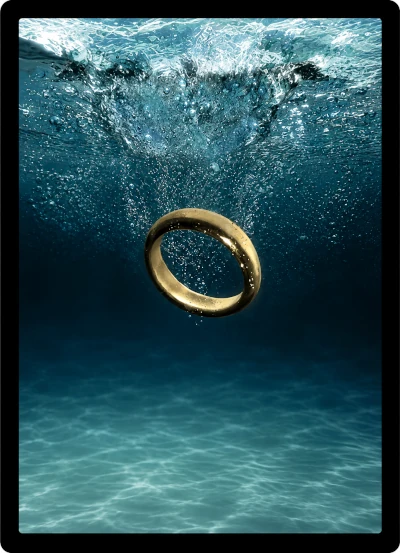
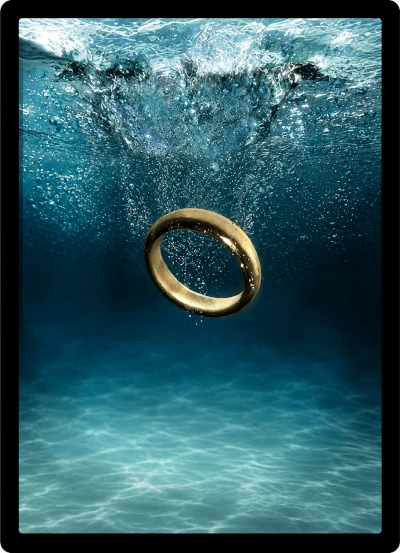
Fixed one ring design

Changed region(s): [[0.06, 0.5226, 0.84, 0.8915], [0.06, 0.0615, 0.27, 0.4919]]

diff --git a/src/views/GameBoard/components/Card/index.tsx b/src/views/GameBoard/components/Card/index.tsx
@@ -305,10 +305,6 @@ export const Card: React.FC<CardProps> = ({
             )}
 
             <S.TextContainer>
-                {size !== 'sm' && translatedKeywords && (
-                    <S.KeywordText>{translatedKeywords}.</S.KeywordText>
-                )}
-
                 {size !== 'sm' && gameText && (
                     <S.GameText>
                         <FormattedText text={gameText} />

diff --git a/src/views/GameBoard/components/Card/styles.ts b/src/views/GameBoard/components/Card/styles.ts
@@ -358,6 +358,7 @@ export const CardContainer = styled.div<CardContainerProps>`
         css`
             width: 400px;
             border-radius: 12px;
+            overflow: hidden;
 
             ${CardHeader} {
                 min-height: 75px;
